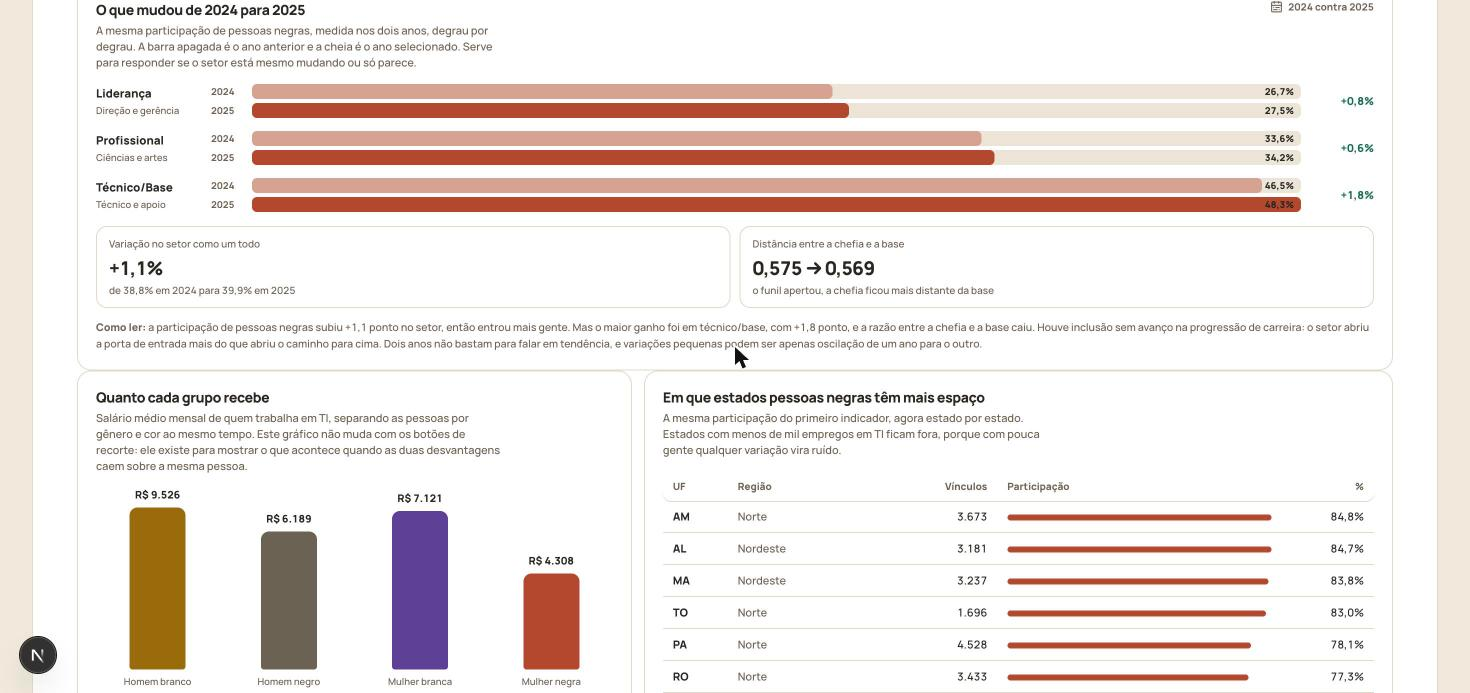
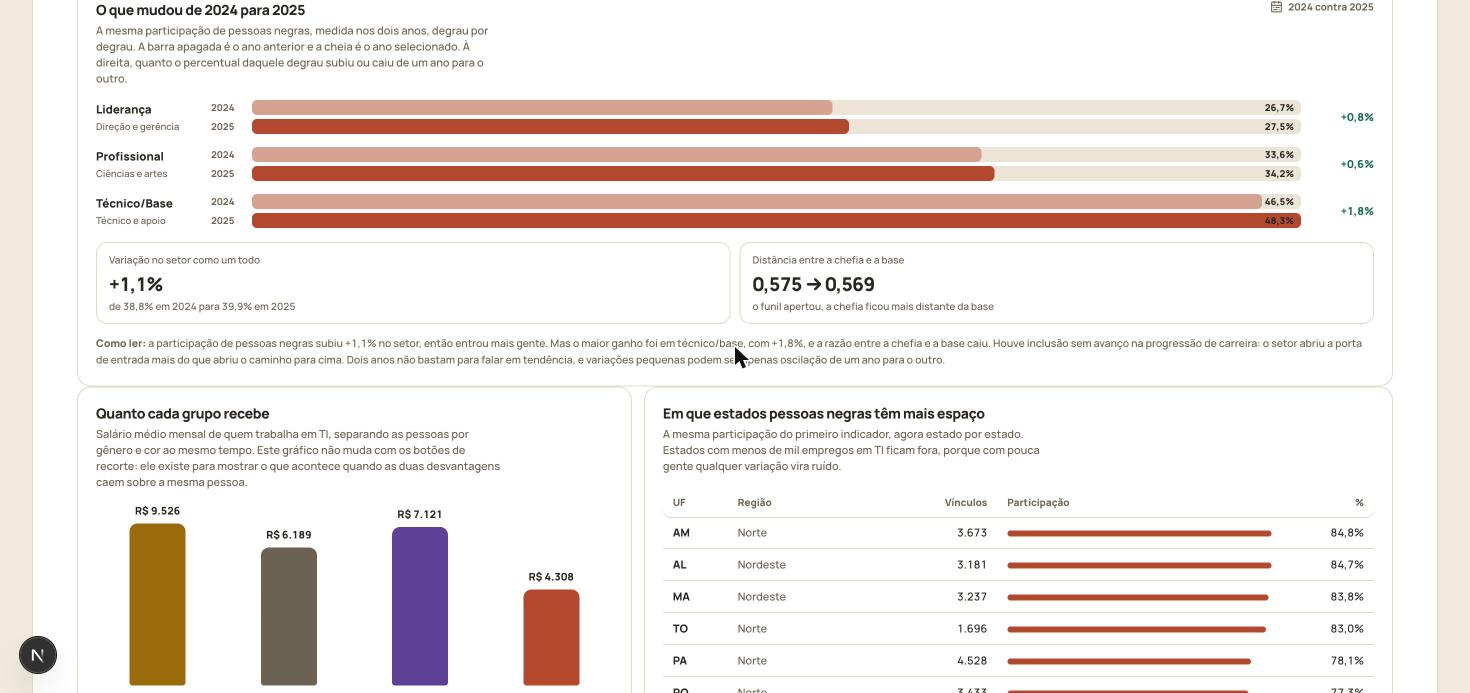
fix: unificar a unidade da variacao em todo o material
O commit anterior trocou p.p. por % no selo de cada degrau, mas deixou o resto
falando outra lingua: o texto logo abaixo dizia "+1,8 ponto" ao lado de um selo
escrito "+1,8%", o README descrevia o painel como mostrando pontos percentuais,
e o roteiro do pitch mandava falar "1,1 ponto" na frente de uma tela com "+1,1%".

Agora o painel, o README e o roteiro usam a mesma unidade. O subtitulo do painel
explica de onde vem o numero da direita sem recorrer a jargao, e no roteiro a
fala cita os dois valores em vez da unidade, o que funciona melhor em voz alta.

A linha do crescimento do setor saiu da tabela comparativa. Os 3,6% de aumento
no numero de vinculos sao proporcao do total, nao diferenca entre percentuais,
e sob o mesmo cabecalho as duas grandezas ficavam indistinguiveis.

diff --git a/dashboard/components/ui/painel.tsx b/dashboard/components/ui/painel.tsx
@@ -310,8 +310,8 @@ function Comparativo({ dados, recorte, categoria, rotulo }: {
       <p className="gd-nota">
         <strong>Como ler:</strong>{" "}
         {c.inclusaoSemProgressao
-          ? `a participação de ${rotulo} subiu ${sinal(c.total.variacao)} ponto no setor, então entrou mais gente. Mas o maior ganho foi em ${c.maiorGanho.nome.toLowerCase()}, com ${sinal(c.maiorGanho.variacao)} ponto, e a razão entre a chefia e a base caiu. Houve inclusão sem avanço na progressão de carreira: o setor abriu a porta de entrada mais do que abriu o caminho para cima.`
-          : `comparando ${c.anoAnterior} com ${c.ano}, a participação de ${rotulo} variou ${sinal(c.total.variacao)} ponto no setor, e o maior movimento aconteceu em ${c.maiorGanho.nome.toLowerCase()}.`}
+          ? `a participação de ${rotulo} subiu ${sinal(c.total.variacao)}% no setor, então entrou mais gente. Mas o maior ganho foi em ${c.maiorGanho.nome.toLowerCase()}, com ${sinal(c.maiorGanho.variacao)}%, e a razão entre a chefia e a base caiu. Houve inclusão sem avanço na progressão de carreira: o setor abriu a porta de entrada mais do que abriu o caminho para cima.`
+          : `comparando ${c.anoAnterior} com ${c.ano}, a participação de ${rotulo} variou ${sinal(c.total.variacao)}% no setor, e o maior movimento aconteceu em ${c.maiorGanho.nome.toLowerCase()}.`}
         {" "}Dois anos não bastam para falar em tendência, e variações pequenas podem ser
         apenas oscilação de um ano para o outro.
       </p>
@@ -554,7 +554,7 @@ export default function PainelDiversidade({ inicial }: { inicial: Dados | null }
                   {dados.anoAnterior && (
                     <Painel classe="gd-comparativo"
                       titulo={`O que mudou de ${dados.anoAnterior} para ${dados.filtros.ano}`}
-                      subtitulo={`A mesma participação de ${rotuloFoco}, medida nos dois anos, degrau por degrau. A barra apagada é o ano anterior e a cheia é o ano selecionado. Serve para responder se o setor está mesmo mudando ou só parece.`}
+                      subtitulo={`A mesma participação de ${rotuloFoco}, medida nos dois anos, degrau por degrau. A barra apagada é o ano anterior e a cheia é o ano selecionado. À direita, quanto o percentual daquele degrau subiu ou caiu de um ano para o outro.`}
                       acao={<span className="gd-legend"><span><CalendarRange aria-hidden="true" style={{ width: 13, height: 13 }} />{dados.anoAnterior} contra {dados.filtros.ano}</span></span>}>
                       <Comparativo dados={dados} recorte={recorte} categoria={categoriaFoco} rotulo={rotuloFoco} />
                     </Painel>

diff --git a/README.md b/README.md
@@ -383,8 +383,8 @@ a participação de um grupo pode subir no setor inteiro e, ao mesmo tempo, a di
 entre a chefia e a base aumentar, se o ganho se concentrar embaixo. Foi exatamente o que
 aconteceu com a população negra entre 2024 e 2025.
 
-O painel mostra as duas medições lado a lado, a variação em pontos percentuais de cada
-degrau, e o índice de afunilamento nos dois anos. O texto de leitura é gerado a partir
+O painel mostra as duas medições lado a lado, quanto o percentual de cada degrau subiu
+ou caiu entre os dois anos, e o índice de afunilamento em cada um. O texto de leitura é gerado a partir
 dos próprios números: quando detecta participação crescendo junto com afunilamento
 piorando, ele nomeia o caso como inclusão sem avanço na progressão de carreira, e sempre
 lembra que dois anos não sustentam afirmação de tendência.
@@ -516,22 +516,25 @@ que a diferença passa de seis pontos.
 
 Com os dois anos carregados dá para medir em vez de inferir:
 
-| | 2024 | 2025 | Diferença |
+| | 2024 | 2025 | Subiu |
 |---|---:|---:|---:|
 | Participação feminina | 37,4% | 37,8% | +0,4% |
 | Participação negra | 38,8% | 39,9% | +1,1% |
-| Total de vínculos publicáveis | 671.587 | 695.978 | +3,6% |
+
+No mesmo período o setor cresceu de 671.587 para 695.978 vínculos publicáveis, 3,6% a
+mais. Esse 3,6% é de outra natureza: é crescimento proporcional do total, enquanto os
+números da tabela acima são a diferença entre dois percentuais.
 
 O setor ficou mais diverso em um ano, nos dois recortes. Mas o número agregado esconde
 onde a mudança aconteceu. Abrindo a participação negra por degrau:
 
-| Degrau | 2024 | 2025 | Diferença |
+| Degrau | 2024 | 2025 | Subiu |
 |---|---:|---:|---:|
 | Técnico/Base | 46,5% | 48,3% | **+1,8%** |
 | Profissional | 33,6% | 34,2% | +0,6% |
 | Liderança | 26,7% | 27,5% | +0,8% |
 
-A base ficou mais diversa três vezes mais rápido que o degrau profissional. O índice de
+A base ganhou 1,8 contra 0,6 do degrau profissional, três vezes mais. O índice de
 afunilamento, que divide a participação na liderança pela participação na base, caiu de
 0,574 para 0,569: a distância entre o topo e a base aumentou, ainda que pouco.
 
